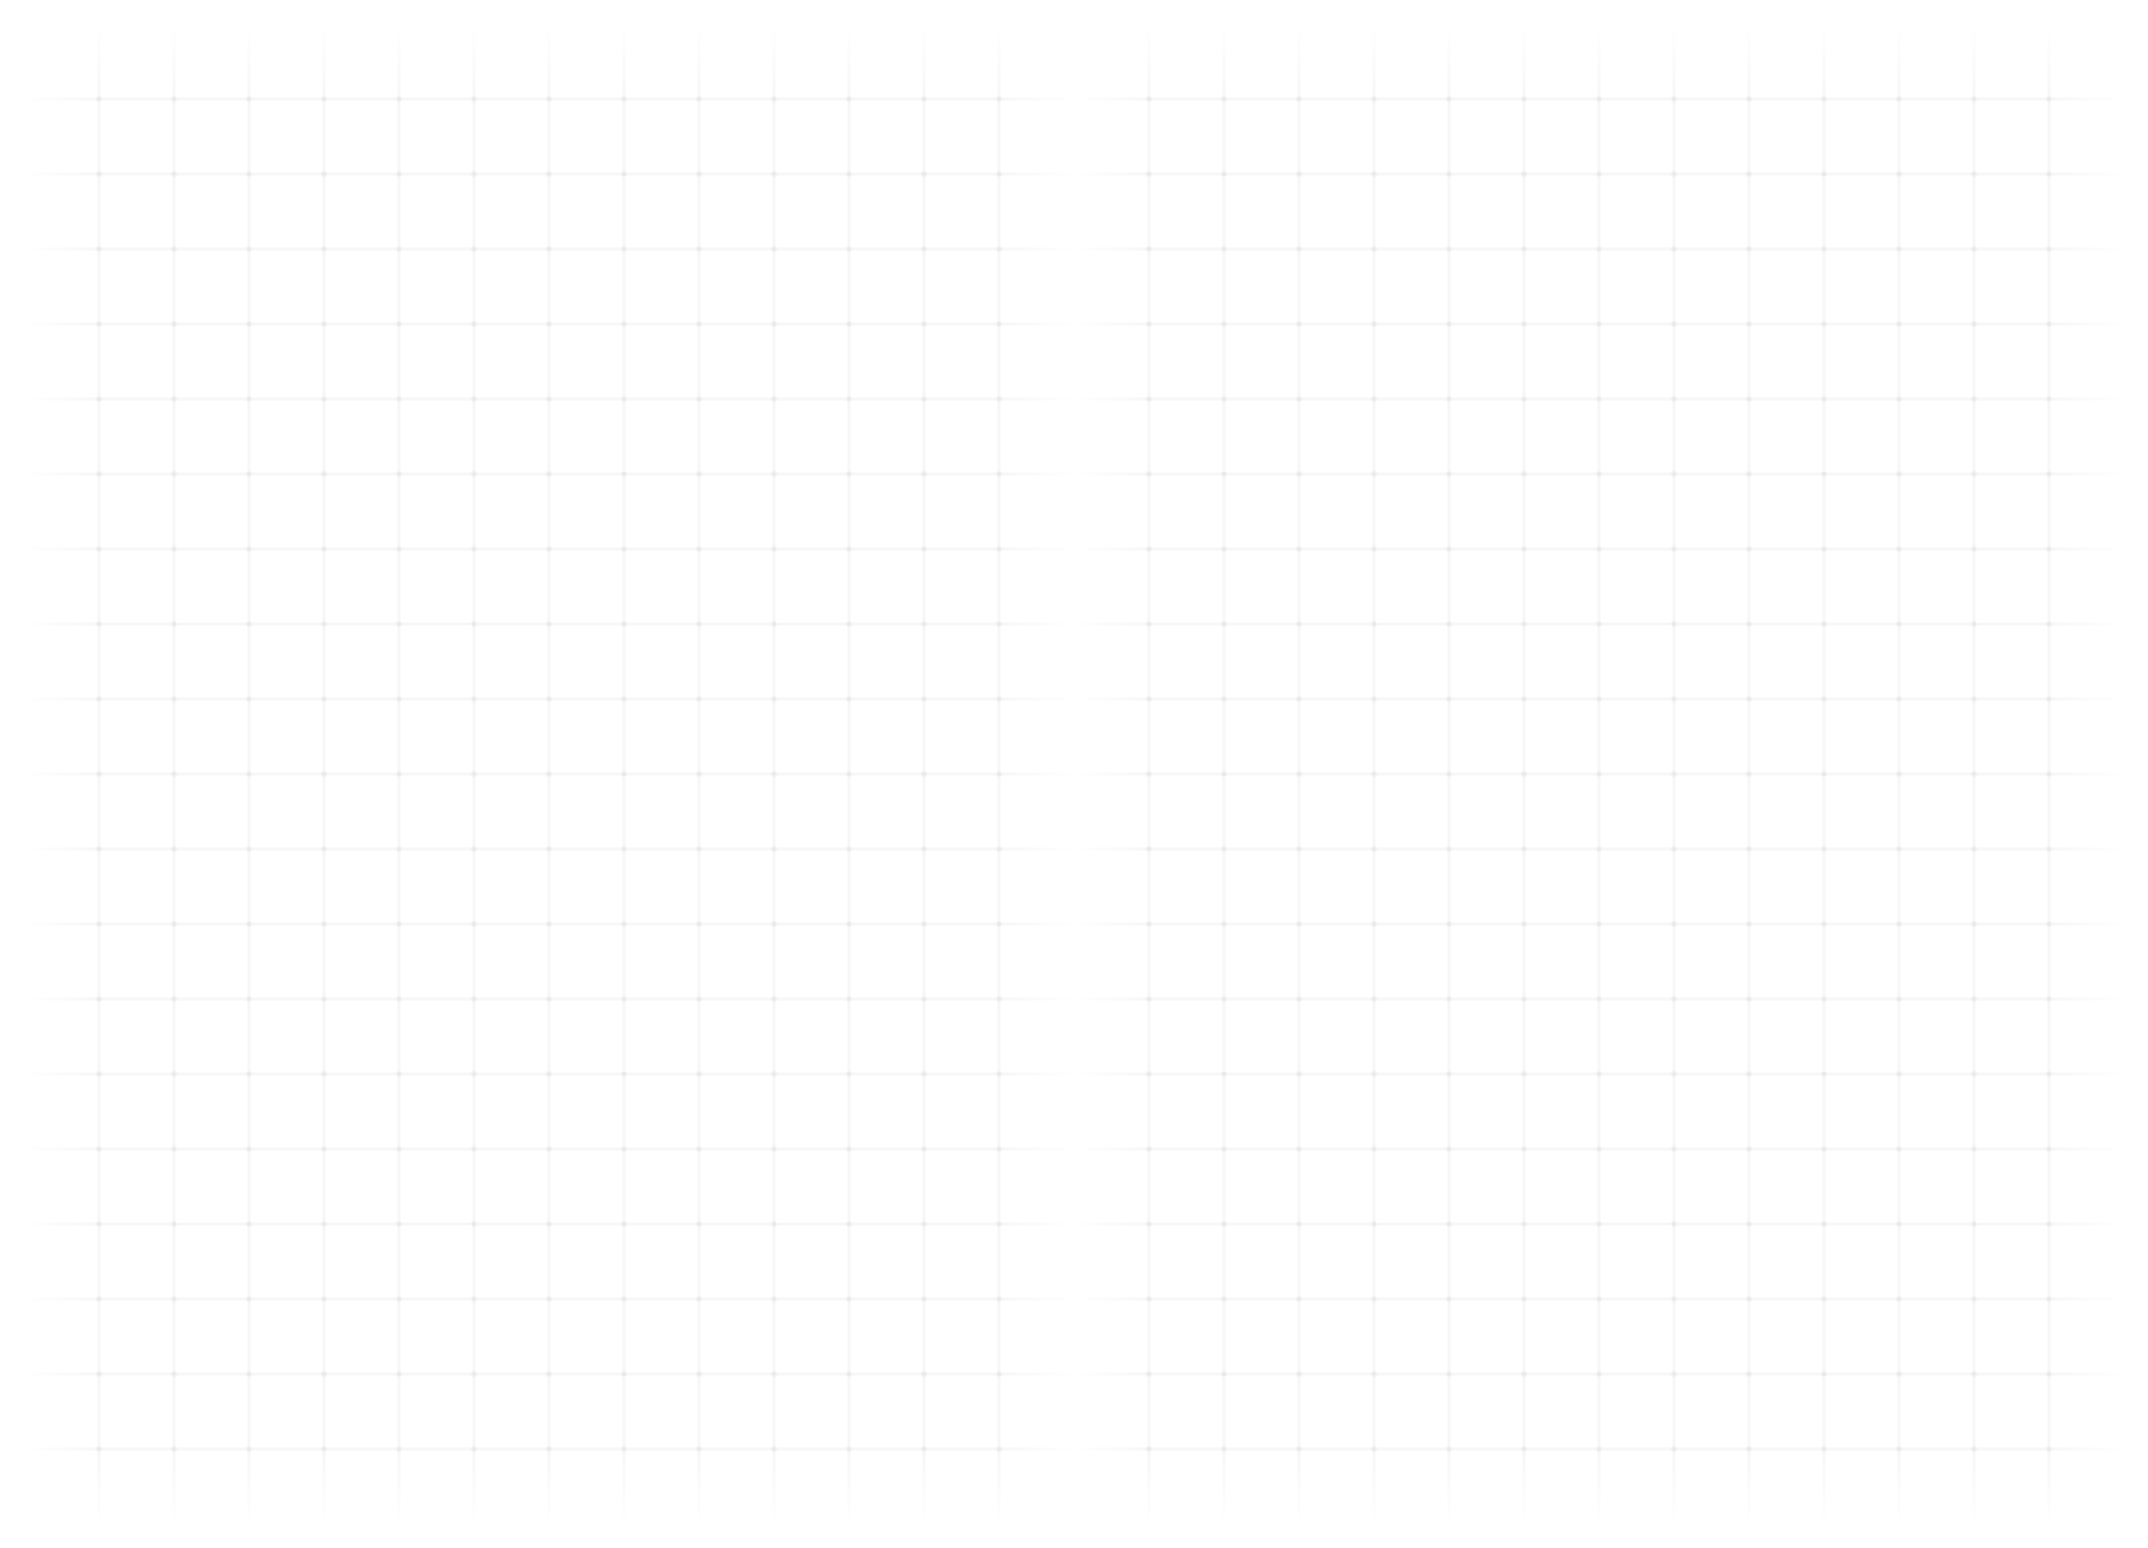
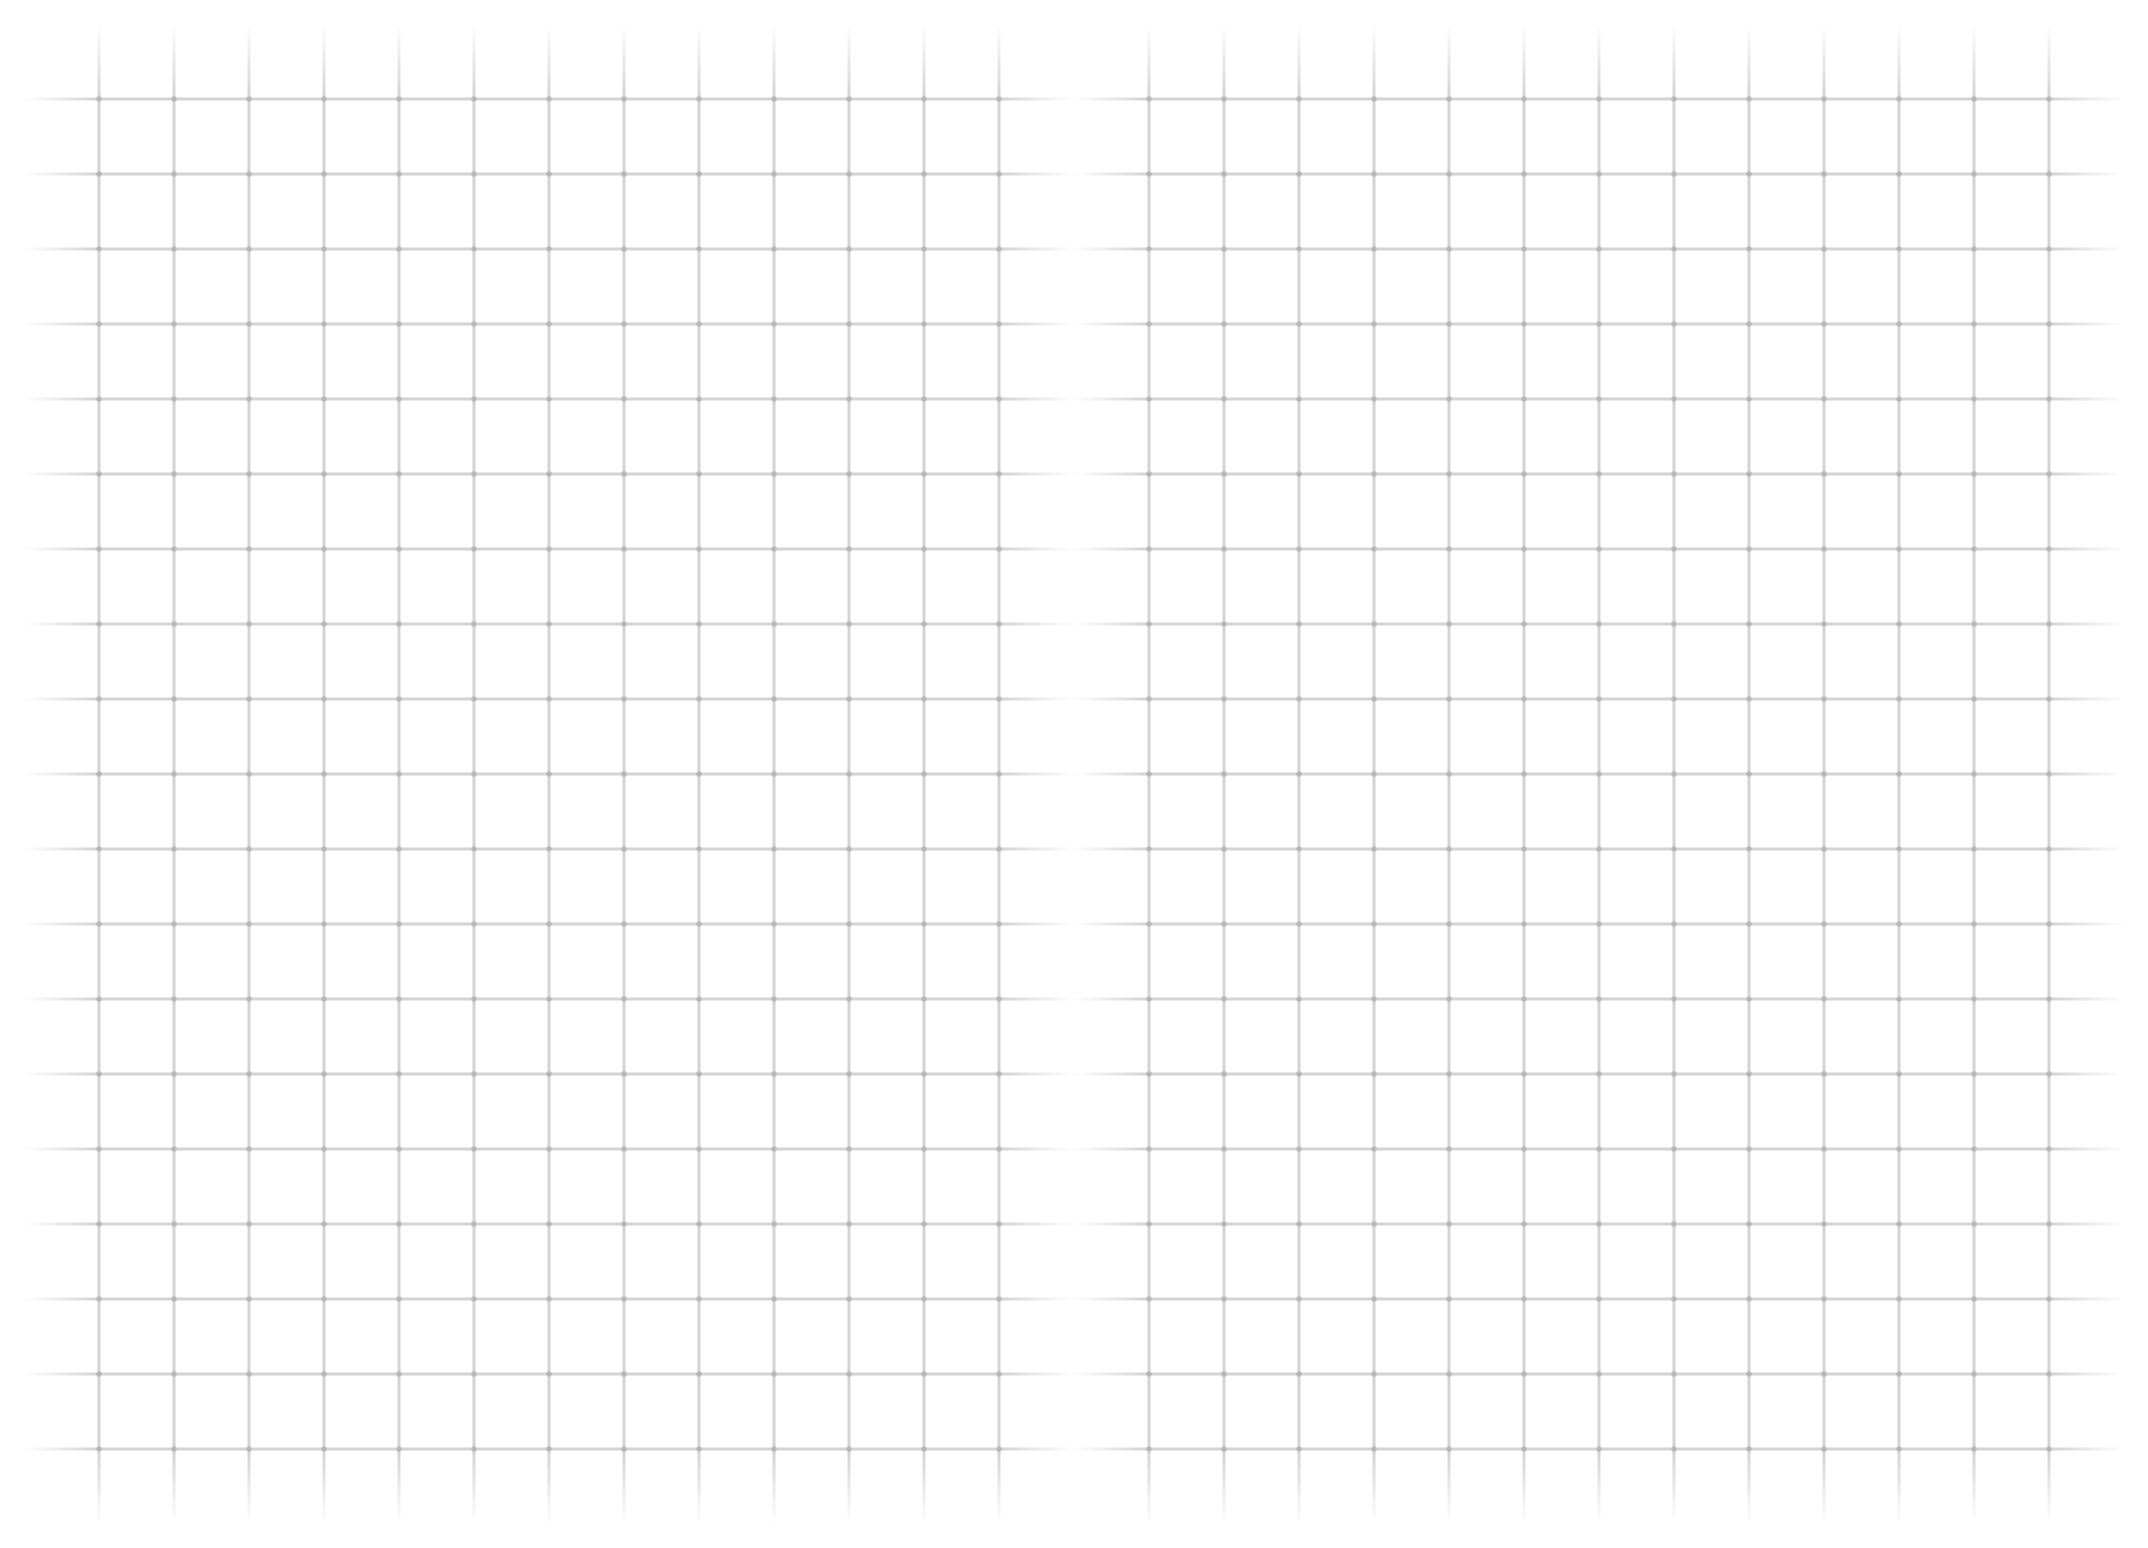
Template cleanup.

diff --git a/journal-generator/index.html b/journal-generator/index.html
@@ -2625,6 +2625,13 @@
                 }
                 ctx.putImageData(imageData, offsetX, offsetY);
             }
+            function rgba(r, g, b, a, backgroundR = 255, backgroundG = 255, backgroundB = 255) {
+                return {
+                    r: Math.round((1 - a) * backgroundR + a * r),
+                    g: Math.round((1 - a) * backgroundG + a * g),
+                    b: Math.round((1 - a) * backgroundB + a * b)
+                };
+            }
             function opacityPixels() {
                 const opacity = parseFloat(getLocalStorageOpacity());
                 if (opacity === 1) {
@@ -2639,10 +2646,12 @@
                 const pixels = imageData.data;
                 for (let i = 0; i < pixels.length; i += 4) {
                     if (pixels[i] === 255 && pixels[i + 1] === 255 && pixels[i + 2] === 255) {
-                        pixels[i + 3] = 0;
                         continue;
                     }
-                    pixels[i + 3] = pixels[i + 3] * opacity;
+                    const color = rgba(pixels[i], pixels[i + 1], pixels[i + 2], opacity);
+                    pixels[i] = color.r;
+                    pixels[i + 1] = color.g;
+                    pixels[i + 2] = color.b;
                 }
                 ctx.putImageData(imageData, offsetX, offsetY);
             }
